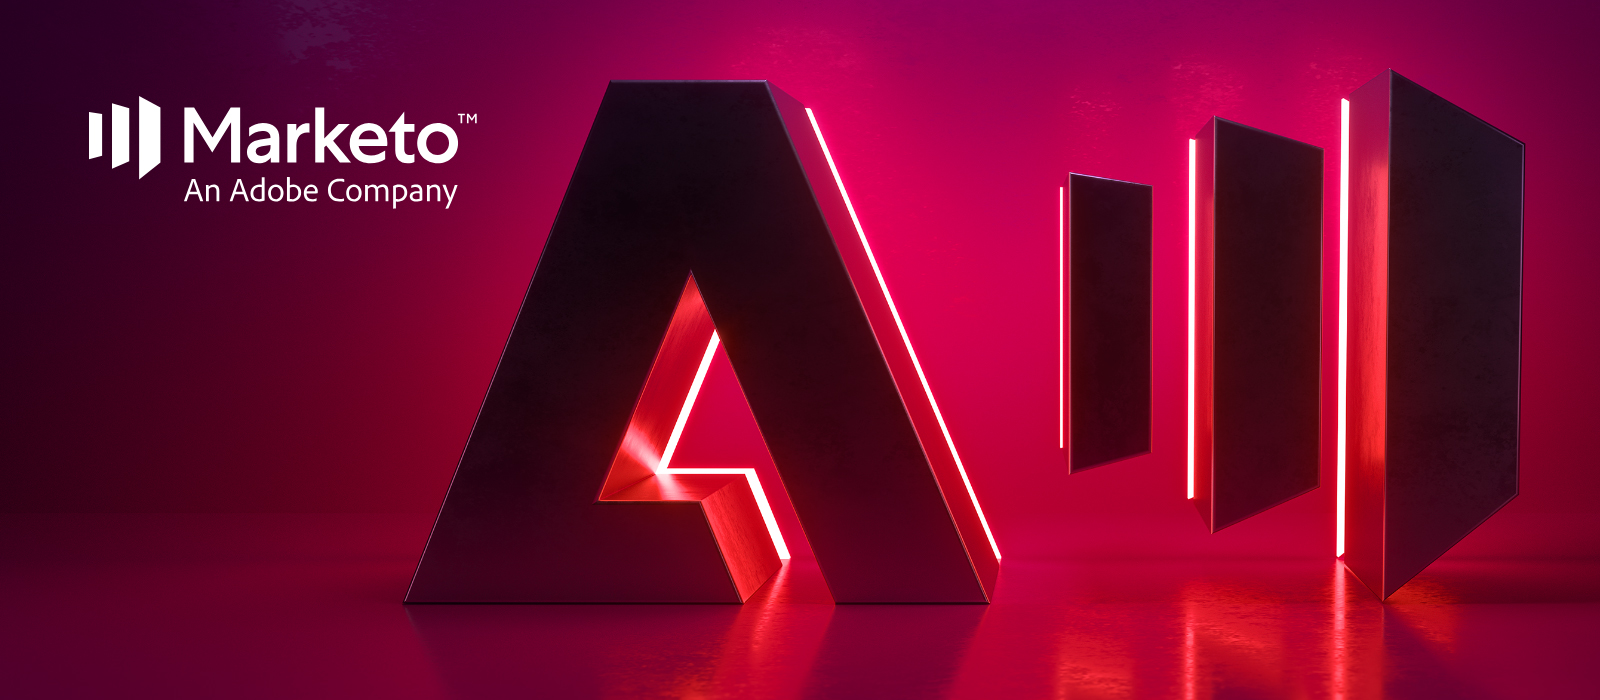
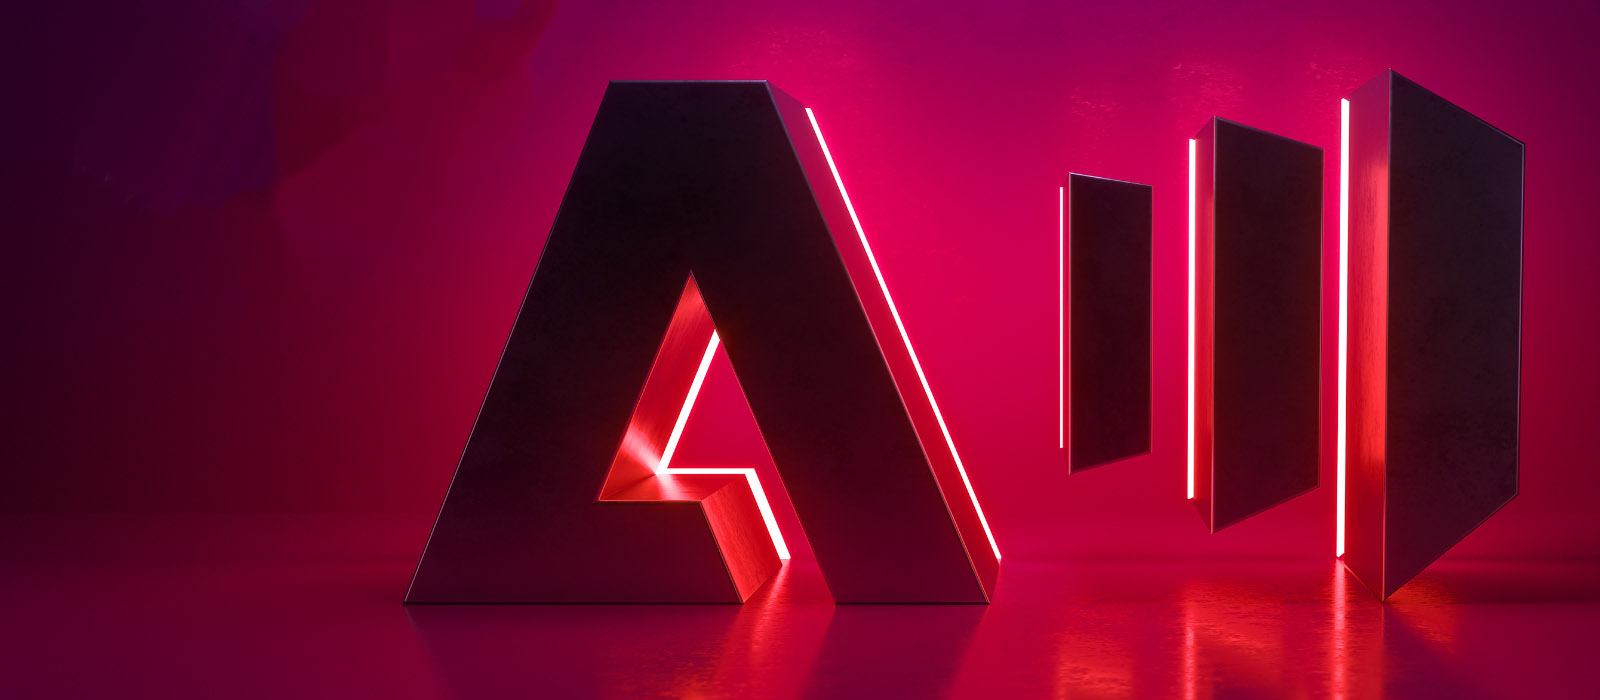
updated background and bubble color

Changed region(s): [[0.0312, 0.15, 0.3125, 0.3], [0.1562, 0.0, 0.2188, 0.09]]

diff --git a/app/templates/en/events/summit-19.html b/app/templates/en/events/summit-19.html
@@ -10,7 +10,7 @@
 <link rel="stylesheet" type="text/css" href="{{ url_for('static', filename='summit-19.css', version='03142019v1') }}">
 <style>
   .full {
-    background: url('summitBackground3.png') center center no-repeat fixed;
+    background: url('../../../static/summitBackground3.png') center center no-repeat fixed;
     webkit-background-size: cover;
     -moz-background-size: cover;
     -o-background-size: cover;

diff --git a/app/templates/en/events/magento.html b/app/templates/en/events/magento.html
@@ -10,7 +10,7 @@
 <link rel="stylesheet" type="text/css" href="{{ url_for('static', filename='summit-19.css', version='03142019v1') }}">
 <style>
   .full {
-    background: url('eventBackground.jpg') center center no-repeat fixed;
+    background: url('../../../static/eventBackground2.jpg') center center no-repeat fixed;
     webkit-background-size: cover;
     -moz-background-size: cover;
     -o-background-size: cover;

diff --git a/app/static/summit-19.css b/app/static/summit-19.css
@@ -125,7 +125,7 @@ h1 {
 	background:#8B6AD0;
 }
 .ch-img-6 .ch-info{ 
-	background:#00BCBC;
+	background:#f26322;
 }
 .ch-img-7 .ch-info{
 	background:#e48d00;
